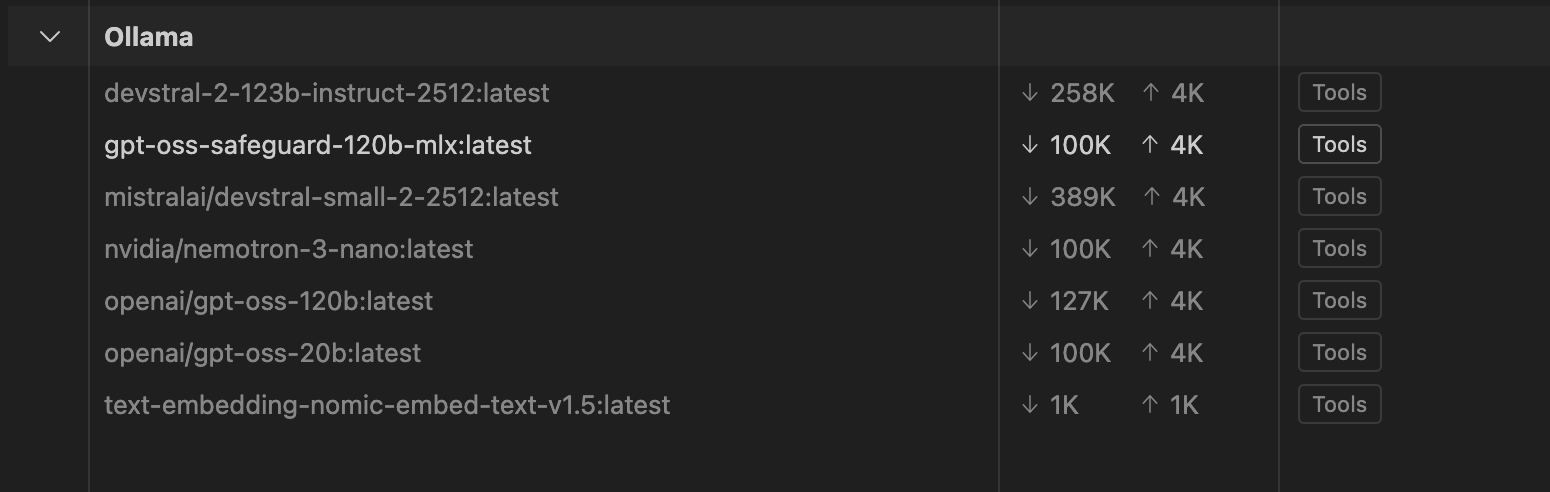
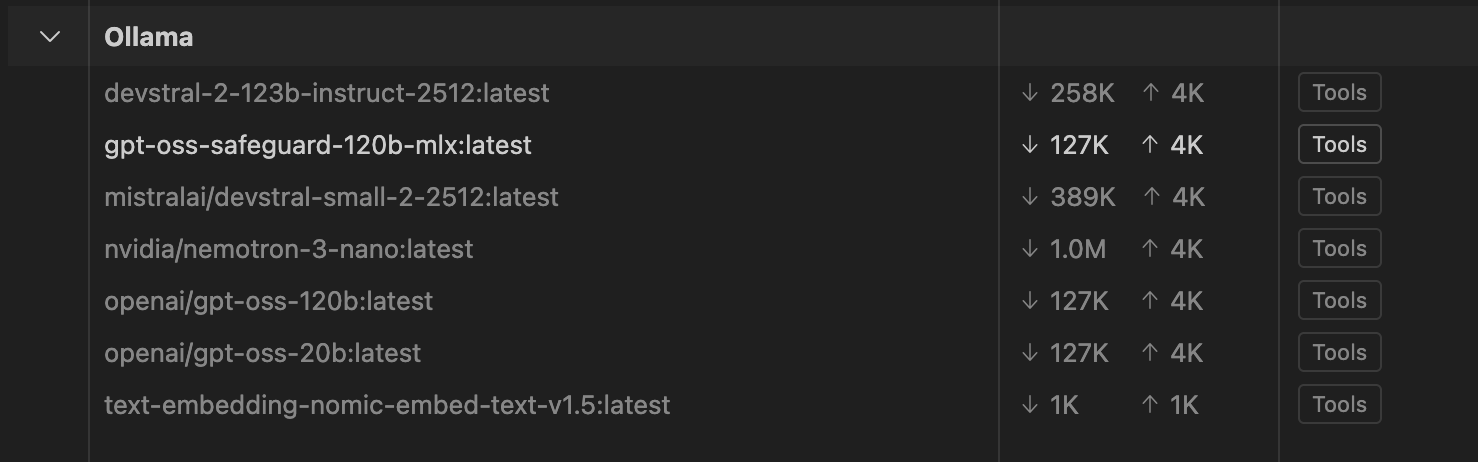
fixing context size in vscode selector code

diff --git a/routes/ollama.py b/routes/ollama.py
@@ -493,14 +493,16 @@ async def show(  # pylint: disable=too-many-locals,too-many-branches
     architecture = details.get("arch")
     if isinstance(architecture, str) and architecture:
         model_info["general.architecture"] = architecture
-        model_key = architecture.replace("_", "")
         if context_length is not None:
-            model_info[f"{model_key}.context_length"] = context_length
+            model_info[f"{architecture}.context_length"] = context_length
+    model_name_key = model.split("/", 1)[-1]
+    if model_name_key and context_length is not None:
+        model_info[f"{model_name_key}.context_length"] = context_length
     entry_id = _extract_model_id(entry) if entry else ""
     family_value = details.get("family")
     if isinstance(family_value, str) and family_value in {name, model, entry_id}:
         family_value = None
-    family_key = _normalize_family_key(family_value or details.get("arch"))
+    family_key = _normalize_family_key(family_value)
     if family_key and context_length is not None:
         model_info[f"{family_key}.context_length"] = context_length
     if context_length is not None:
